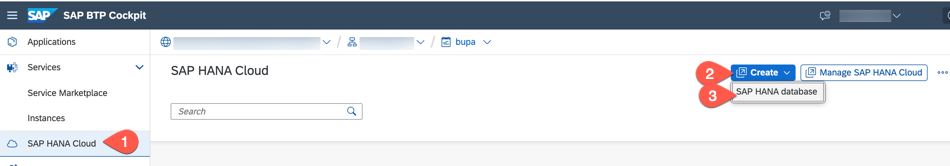
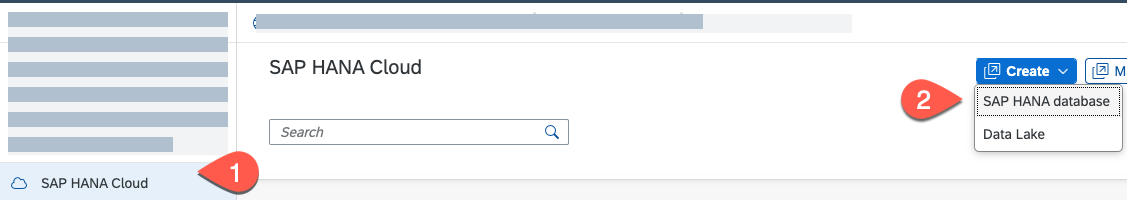
Adapt hana instance creation change

diff --git a/documentation/set-up/configure-account/README.md b/documentation/set-up/configure-account/README.md
@@ -4,29 +4,34 @@
 
 For this mission, an SAP HANA service for SAP BTP is necessary. Use the following steps create a SAP HANA Cloud instance:
 
-1. In your SAP BTP Cockpit, navigate to your sub-account and to the space which you have created. 
-  
-2. Choose **SAP HANA Cloud** in the left navigation pane and Choose **Create** and in the drop-down, select **SAP HANA Database**.
+Use the following steps to create an SAP HANA Cloud instance on SAP BTP:
 
-    ![HANA](./images/createDatabase.png)
+1. Navigate to SAP HANA Cloud Subscription Application:
 
-3. Choose the type of the SAP HANA Cloud Instance as **SAP HANA Cloud, SAP HANA Database** and select **Next Step**.
+    - In SAP BTP cockpit navigate to the **Services** &rarr; **Instances and Subscriptions** and **SAP HANA Cloud**.
+    - Select the three dots and choose **Go to Application**.
+
+    ![HANA](./images/hanatools.png)
+
+2. You will be logged in to SAP HANA Cloud Central. Choose **Create Instance**.
+
+3. Choose the type of SAP HANA Cloud instance as **SAP HANA Cloud, SAP HANA Database** and select **Next Step**.
 
    ![HANA](./images/createDatabase02.png)
-   
-4. In the next tab, choose the SAP BTP **Organization** and **Space** from the drop-down box. Enter an **Instance name**, also enter a valid database **Administrator Password** and select **Next Step**.
+
+4. In the next tab, Enter an **Instance name**, enter a valid database **Administrator Password**, **confirm Administrator Password** and select **Next Step**.
 
    ![HANA](./images/createDatabase03.png)
 
 5. Select the **Memory** and **Storage** capacity for your SAP HANA Cloud database instance. For this mission, you can choose the minimum capacity and select **Next Step**.
 
-   ![HANA](./images/createDatabase04.png) 
-  
-6. In the tab for Availability Zone and Replicas, you can leave the defaults and choose **Next Step**. 
+   ![HANA](./images/createDatabase04.png)
 
-   ![HANA](./images/createDatabase05.png)    
-   
-7. In the tab for SAP HANA Advanced Settings, you can leave the default values to **Allow only SAP BTP IP Addresses** and choose **Review and Create**.
+6. In the tab for Availability Zone and Replicas, you can leave the defaults and choose **Next Step**.
+
+   ![HANA](./images/createDatabase05.png)
+
+7. In the tab for SAP HANA Advanced Settings, choose **Allow all IP Addresses** and choose **Review and Create**.
 
    ![HANA](./images/createDatabase06.png)
 

diff --git a/documentation/prepare/mission-prerequisites/README.md b/documentation/prepare/mission-prerequisites/README.md
@@ -30,7 +30,7 @@ The application requires the following [Entitlements and Quotas](https://help.sa
 | Service                           | Plan       | Number of Instances |
 |-----------------------------------|------------|:-------------------:|
 | SAP HANA Schemas & HDI Containers | hdi-shared |          1          |
-| SAP HANA Cloud                    | hana       |          1          |
+| SAP HANA Cloud                    | tools      |          1          |
 | Cloud Foundry Runtime             | MEMORY     |          2          |
 | Event Mesh                        | default    |          1          |
 | Destination Service               | lite       |          1          |
